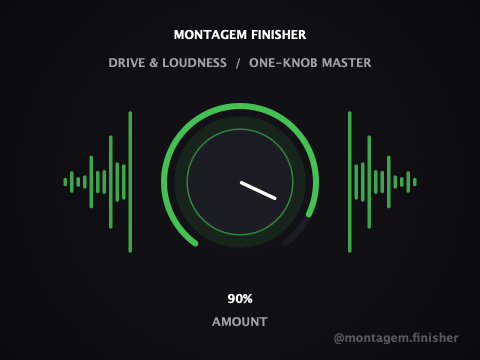
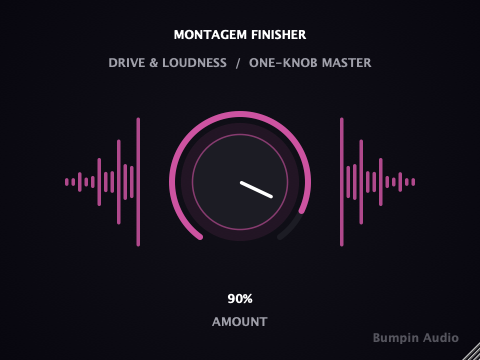
Update publisher name to Bumpin Audio
Purely metadata (COMPANY_NAME) -- the technical manufacturer code used by
hosts/DAWs to identify the plugin is unchanged, so existing installs are
unaffected.

Changed region(s): [[0.125, 0.275, 0.875, 0.7028], [0.6875, 0.9167, 0.9688, 0.9778], [0.9688, 0.9472, 1.0, 1.0]]

diff --git a/Source/FinisherLookAndFeel.h b/Source/FinisherLookAndFeel.h
@@ -1,17 +1,19 @@
 #pragma once
 #include <juce_gui_basics/juce_gui_basics.h>
 
-// Brand palette, shared across the project's other assets: dark background,
-// red = "before", green = "after". The knob arc interpolates between them
-// as the single "amount" parameter increases, so the color itself communicates
-// the effect strength instead of a plain gray dial.
+// Same Bumpin Audio catalogue palette as Delta Zero/Delta Blind (and the
+// logo): cyan = "before"/idle, magenta = "after"/engaged. The knob arc
+// interpolates between them as the single "amount" parameter increases,
+// so the color itself communicates the effect strength instead of a plain
+// gray dial -- same cyan=calm/magenta=intense convention used across the
+// whole catalogue, not the original red/green.
 class FinisherLookAndFeel : public juce::LookAndFeel_V4
 {
 public:
-    inline static const juce::Colour bg        { 0xff0d0d12 };
+    inline static const juce::Colour bg        { 0xff0a0912 };
     inline static const juce::Colour bgLighter  { 0xff1c1c24 };
-    inline static const juce::Colour red        { 0xffff3b30 };
-    inline static const juce::Colour green      { 0xff30d158 };
+    inline static const juce::Colour cyan       { 0xff29c2d6 };
+    inline static const juce::Colour magenta    { 0xffe0479c };
     inline static const juce::Colour textDim    { 0xffa0a0aa };
 
     FinisherLookAndFeel()
@@ -28,7 +30,7 @@ public:
         const auto centre = bounds.getCentre();
         const auto radius = juce::jmin(bounds.getWidth(), bounds.getHeight()) * 0.5f;
         const auto angle = rotaryStartAngle + sliderPosProportional * (rotaryEndAngle - rotaryStartAngle);
-        const auto knobColour = red.interpolatedWith(green, sliderPosProportional);
+        const auto knobColour = cyan.interpolatedWith(magenta, sliderPosProportional);
 
         // outer track
         {

diff --git a/Source/PluginEditor.cpp b/Source/PluginEditor.cpp
@@ -60,7 +60,7 @@ FinisherEditor::FinisherEditor(FinisherProcessor& p)
     amountSlider.onValueChange = [this] { updateValueLabel(); repaint(); };
     updateValueLabel();
 
-    brandLabel.setText("@montagem.finisher", juce::dontSendNotification);
+    brandLabel.setText("Bumpin Audio", juce::dontSendNotification);
     brandLabel.setJustificationType(juce::Justification::centredRight);
     brandLabel.setColour(juce::Label::textColourId, FinisherLookAndFeel::textDim.withAlpha(0.5f));
     brandLabel.setFont(juce::Font(juce::FontOptions(10.0f, juce::Font::plain)));
@@ -92,12 +92,12 @@ void FinisherEditor::paint(juce::Graphics& g)
     g.fillAll();
 
     // Both sides now share one height pattern and one colour (interpolated
-    // red -> green with amount, matching the knob) instead of a fixed
-    // red-left/green-right split with two different random seeds and two
-    // different scaling formulas. The old asymmetry (different shape, and
-    // colour that never moved with amount) read as a bug, not a design choice.
+    // cyan -> magenta with amount, matching the knob) instead of a fixed
+    // left/right split with two different random seeds and two different
+    // scaling formulas. The old asymmetry (different shape, and colour
+    // that never moved with amount) read as a bug, not a design choice.
     const float amount = (float)amountSlider.getValue();
-    const auto colour = FinisherLookAndFeel::red.interpolatedWith(FinisherLookAndFeel::green, amount);
+    const auto colour = FinisherLookAndFeel::cyan.interpolatedWith(FinisherLookAndFeel::magenta, amount);
 
     auto knobArea = amountSlider.getBounds().toFloat();
     const float barAreaWidth = 70.0f;

diff --git a/README.md b/README.md
@@ -41,8 +41,8 @@ here — that tuning is the actual product, not open source at this stage.
 ## Features
 
 - Single macro parameter (`Amount`) driving the whole signal chain
-- Custom dark-themed UI: the knob's glow and arc shift from red to green as the
-  effect intensifies, matching the "before / after" visual identity used in demos
+- Custom dark-themed UI: the knob's glow and arc shift from cyan to magenta as
+  the effect intensifies, matching the Bumpin Audio catalogue palette
 - Denormal-safe processing and parameter smoothing (no zipper noise when
   automating or turning the knob live)
 - Builds as **VST3**, **AU** (passes `auval` validation), and a **Standalone** app
@@ -107,6 +107,11 @@ funk automotivo / phonk production, in signal-chain order:
 - [Montagem Widener](https://github.com/nabsei/montagem-widener) — stereo width
 - [Montagem Punch](https://github.com/nabsei/montagem-punch) — transient shaping
 
-Also by the same author: [Delta](https://github.com/nabsei/delta), a
-phase-cancellation null-test / difference-checker plugin (a different tool
-for a different audience — audio engineers doing verification work).
+Also from Bumpin Audio: [Yano Log](https://github.com/nabsei/yano-log),
+[Yano Finish](https://github.com/nabsei/yano-finish),
+[Yano Space](https://github.com/nabsei/yano-space),
+[Yano Swing](https://github.com/nabsei/yano-swing) — a one-knob amapiano
+log drum synth, finisher, space/width processor, and MIDI groove tool --
+and the Delta line for audio engineers, [Delta Zero](https://github.com/nabsei/delta-zero)
+(phase-cancellation null-test / difference-checker) and
+[Delta Blind](https://github.com/nabsei/delta-blind) (loudness-matched A/B compare).